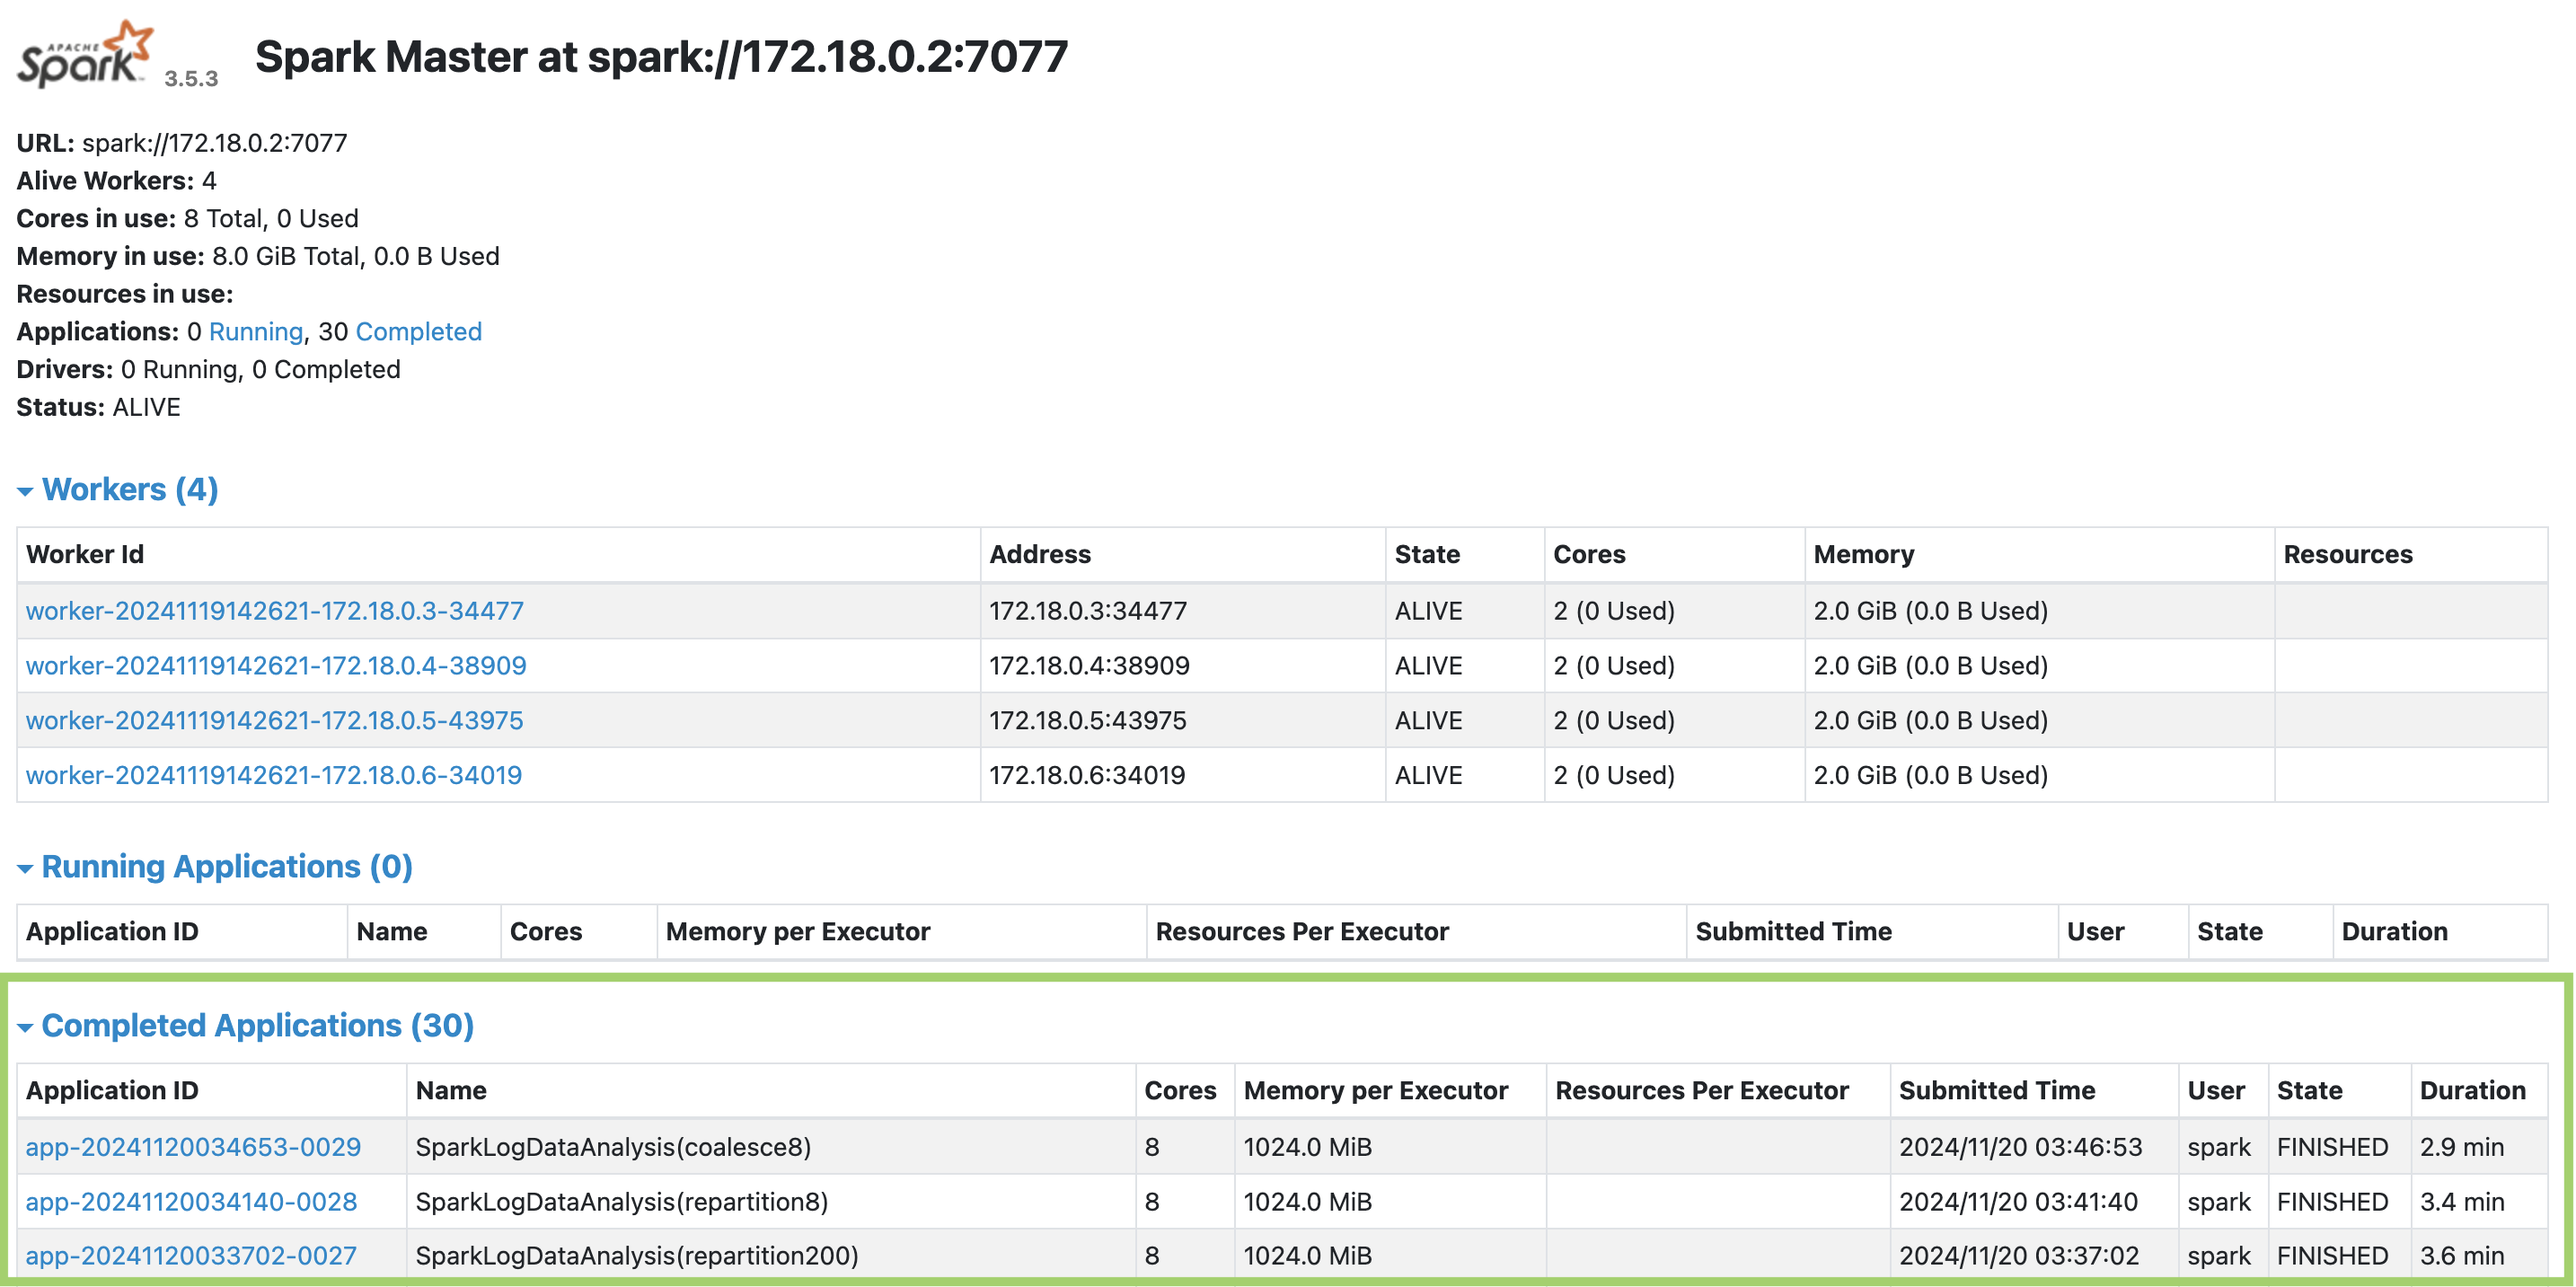
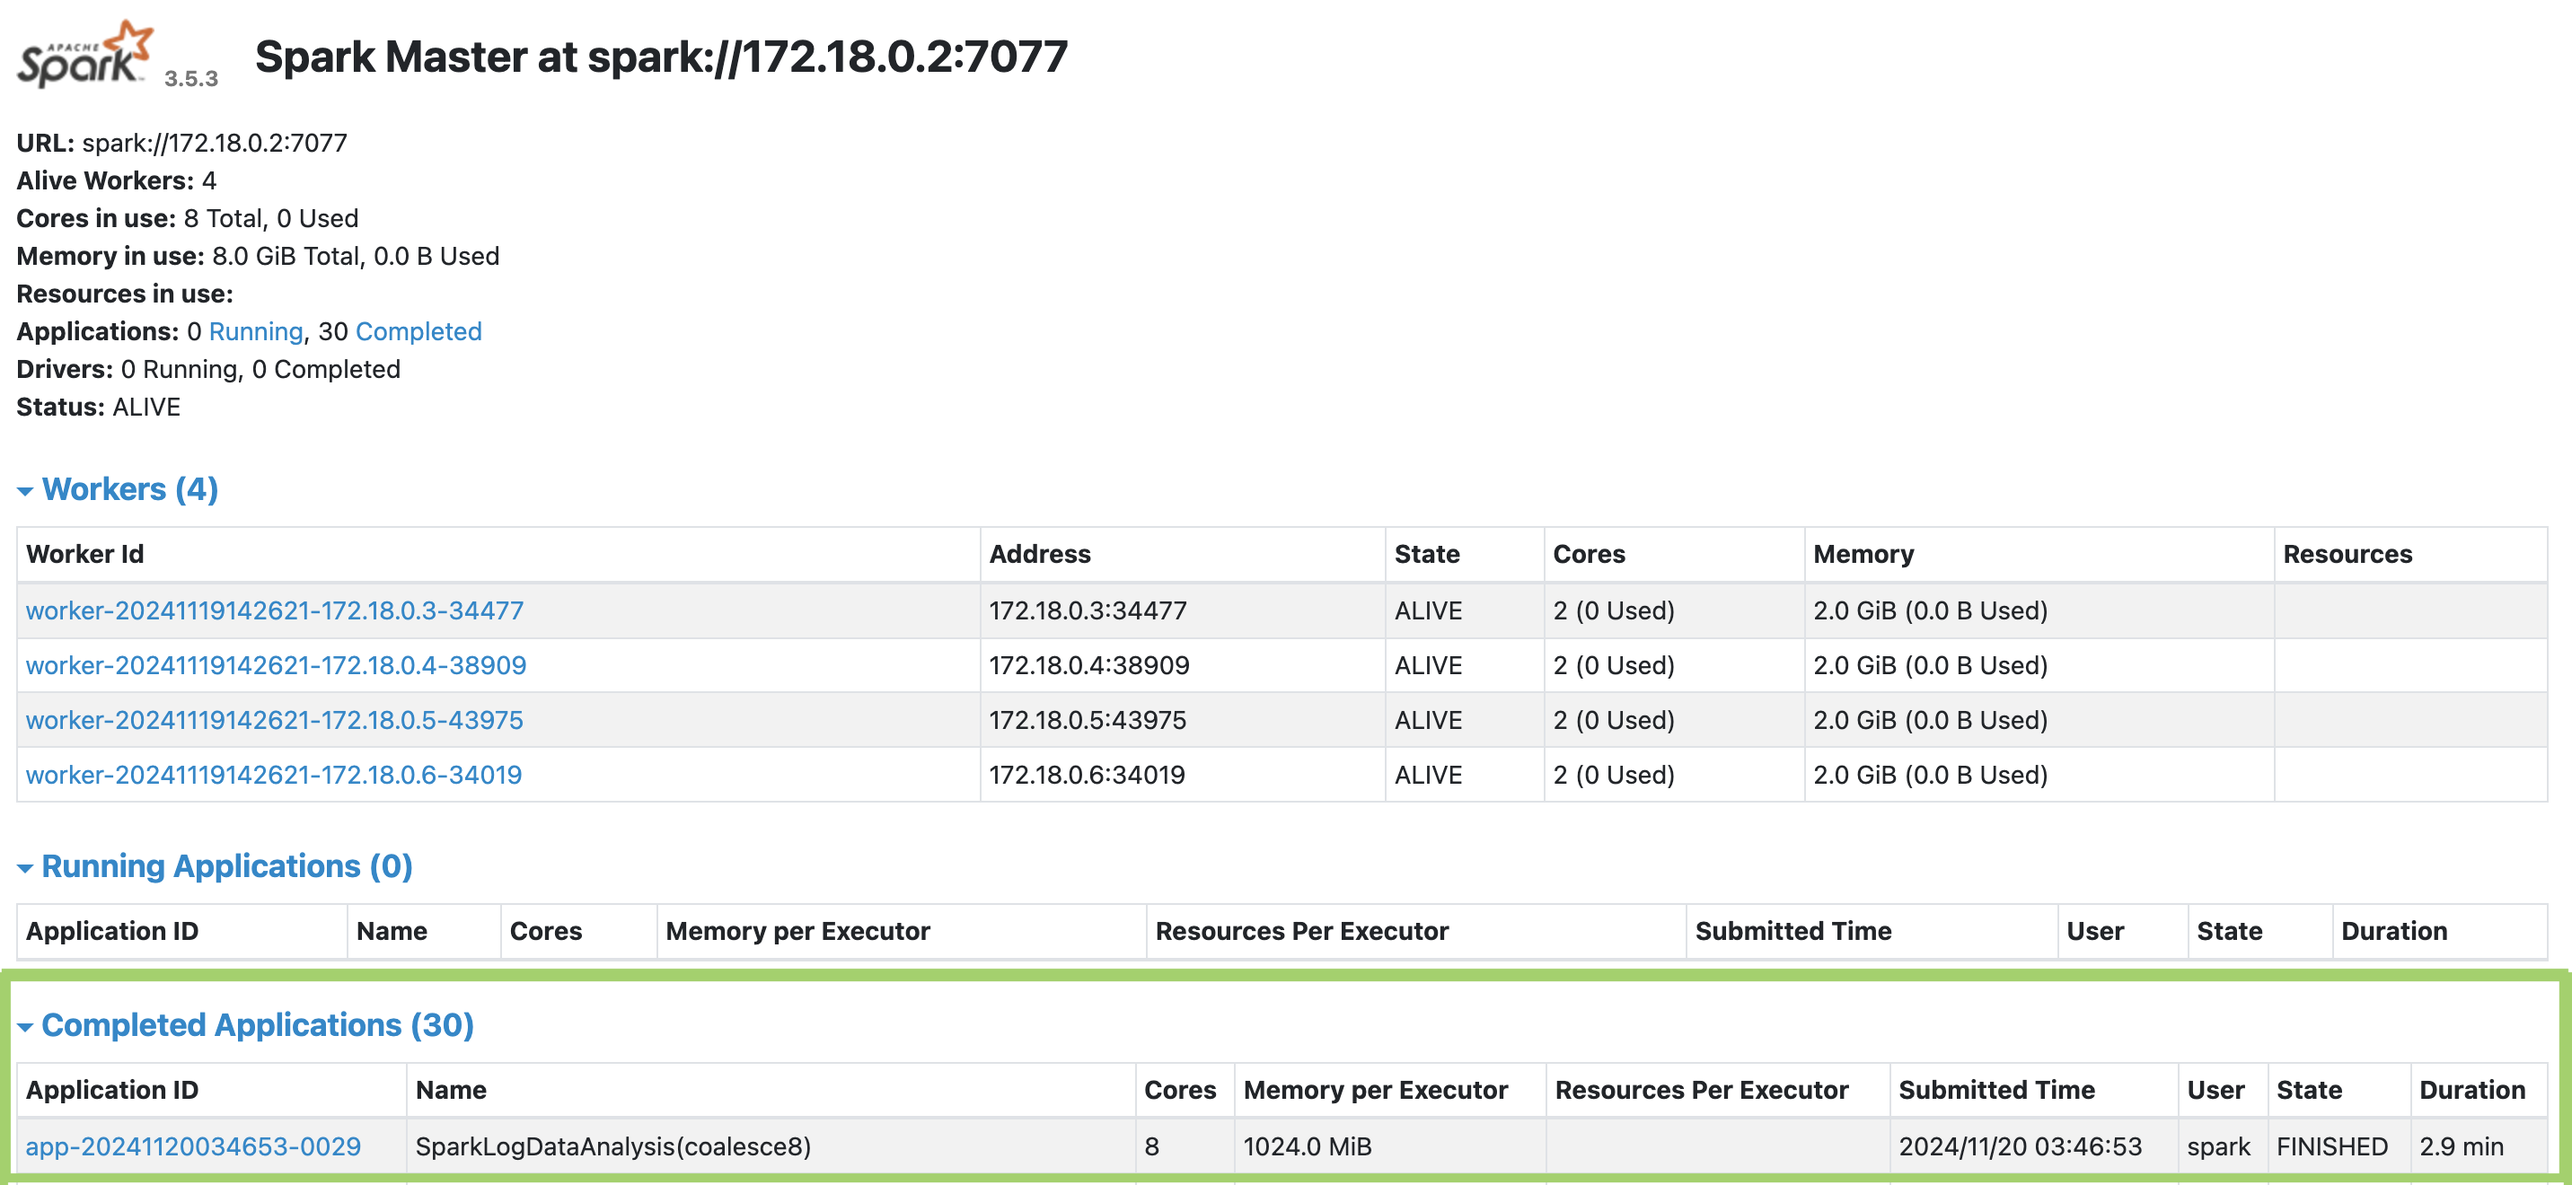
nits: README

diff --git a/README.md b/README.md
@@ -104,24 +104,26 @@ Optional tools required
     **usage:** <br>
     setup spark containers: 
     - `make up-spark` to spin up the spark containers 
-    - download and extract the logs dataset into the `spark/data` folder <br>
-        the extracted file should contain `915` folders with `.log` files within the folders with a total of `3852`  files 
+    - download and extract the logs dataset into the `spark/data` folder. <br>
 
-        - **how to:** <br>
+        The extracted file should contain `915` folders with `.log` files within the folders with a total of `3852`  files 
+
+        - **how to download and extract the data:** <br>
           ```bash
             wget "https://zenodo.org/records/8196385/files/Spark.tar.gz?download=1" -O Spark.tar.gz
 
             tar -xzvf Spark.tar.gz
           ```
 
-    <img src="static/spark-logs-folder-files-shot-2.png" alt="ELT Architecture" width="600"/> <br>
+        <img src="static/spark-logs-folder-files-shot-2.png" alt="ELT Architecture" width="600"/> <br>
 
-    - submit the spark job to process the files and aggregate the logs data with `spark-job`. This will submit spark job to spark cluster via the master url. The spark code is written to dynamically read all the log files in all the sub folders and parse the 33 mllion worth of records for processing.
+    - submit the spark job to process the files and aggregate the logs data with `make spark-job`. This will submit spark job to spark cluster via the master url. The spark code is written to dynamically read all the log files in all the sub folders and parse the 33 mllion worth of records for processing.
 
-    <img src="static/spark-records-processed.png" alt="ELT Architecture" width="600"/> <br>
+        <img src="static/spark-records-processed.png" alt="ELT Architecture" width="600"/> <br>
 
     >  🚨 Note! :
     > The setup was tested on a cloud server, which is recommended over running it on a local machine. This was done using a DigitalOcean Droplet with the following specs: `8 GB Memory / 2 AMD vCPUs / 100 GB Disk / FRA1 - Ubuntu 24.10 x64` <br>
+
 
     The result of the aggregation is shown here: <br>
 
@@ -137,7 +139,11 @@ Optional tools required
     - **Performance Considerations:**
         - Adaptive Query Execution: Spark’s adaptive query execution was enabled to optimize the execution plan at runtime
         - Shuffle Partitions: The `shuffle partitions` were set to `16` to balance the workload and improve parallelism.
-        - Coalescing: The number of partitions was reduced to `8` using `coalesce` to optimize performance during aggregation, minimizing the overhead of excessive partitions
+        - Coalescing: The number of partitions was reduced to `8` using `coalesce` to optimize performance during aggregation, minimizing the overhead of excessive partitions <br>
+
+            - I was able to run the query to process the `33 million` records within `2.9mins`
+
+            <img src="static/spark-cluster-shot.png" alt="ELT Architecture" width="600"/> <br>
 
 ###  4. Data Modeling Techniques
 - ## Data Model Diagrams 
